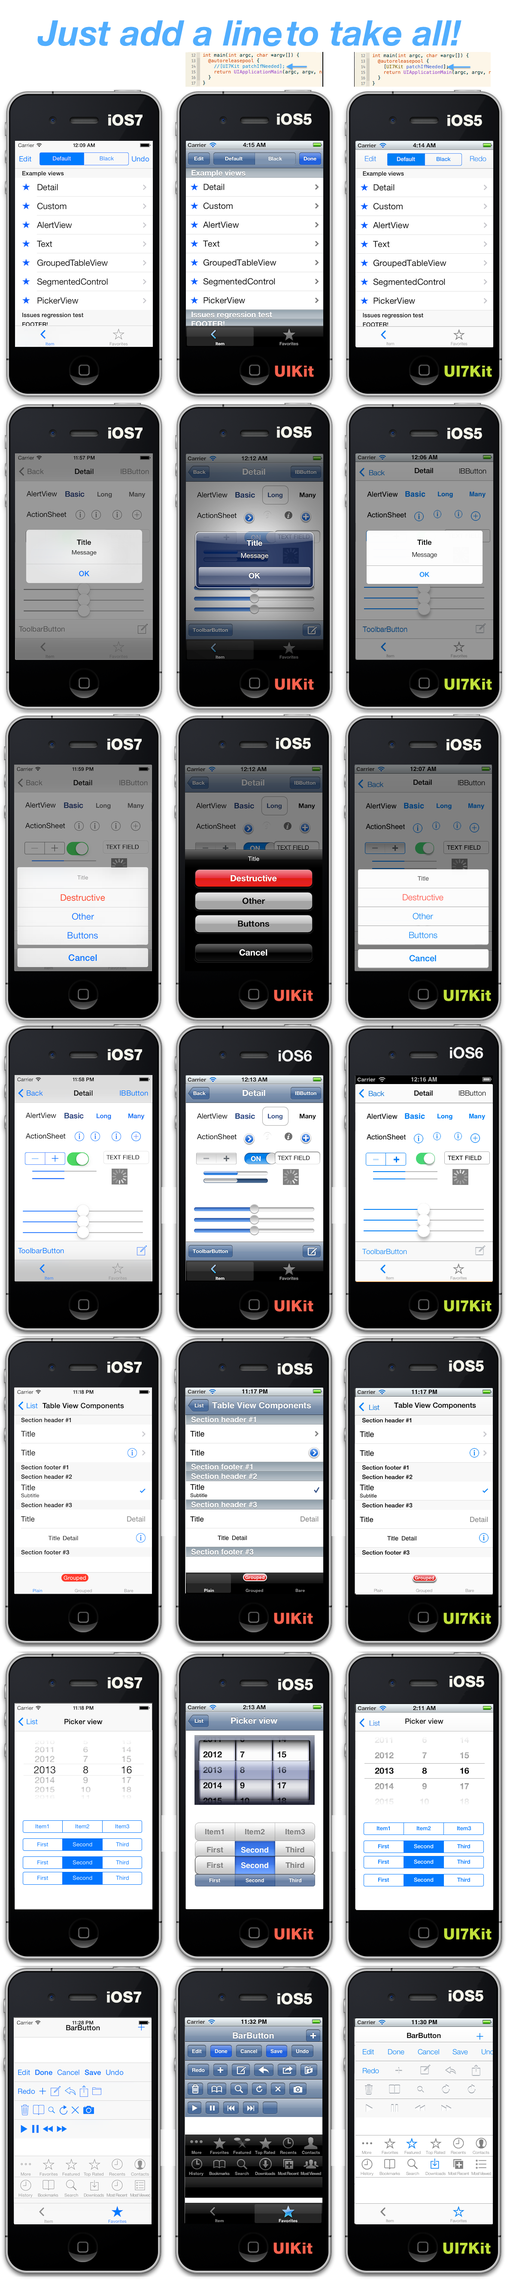
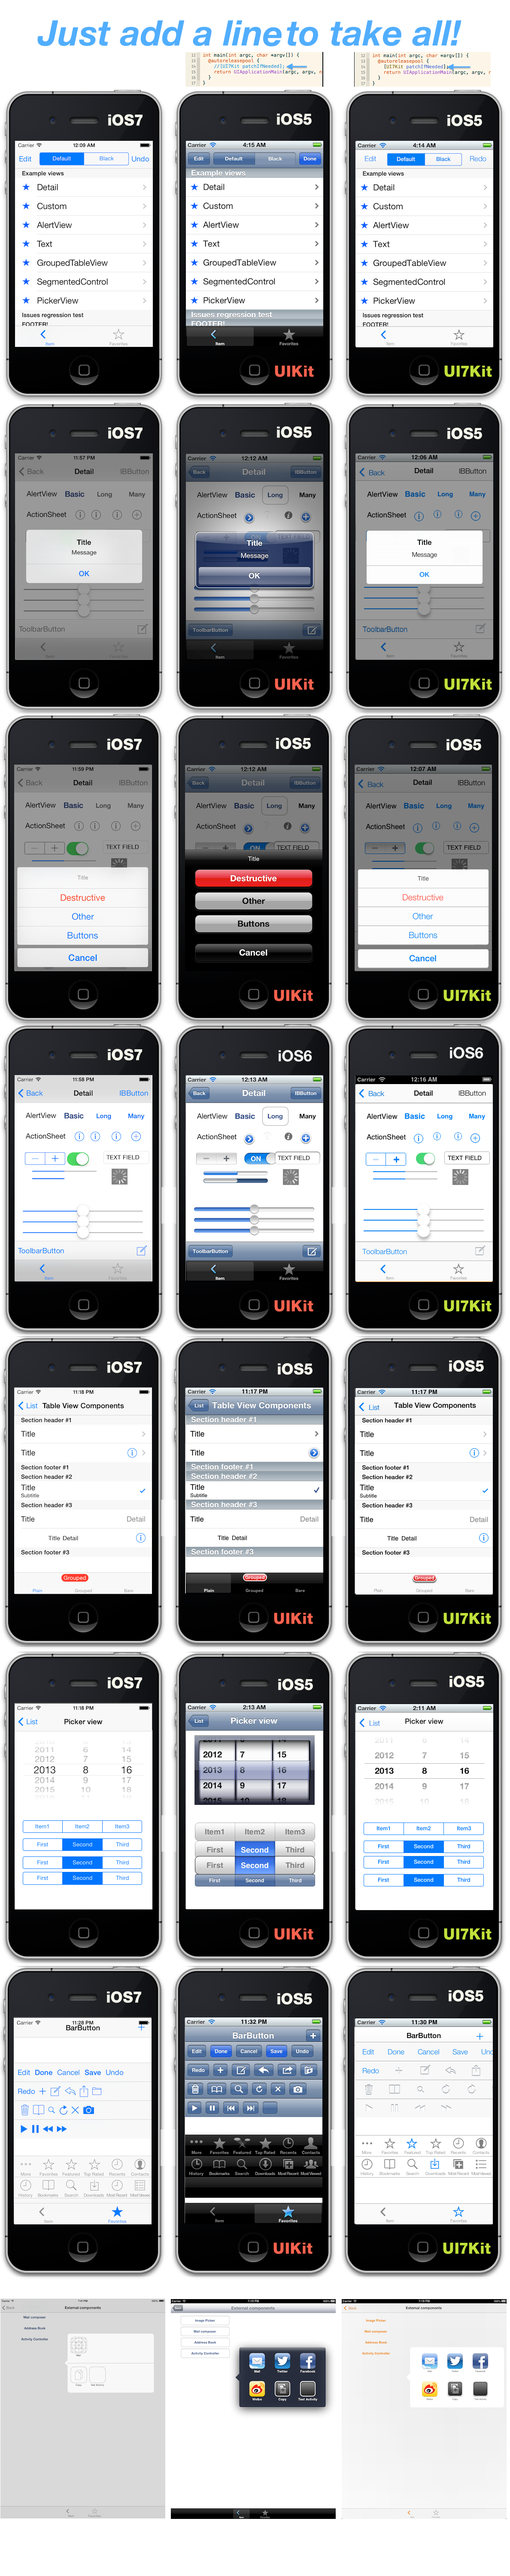
0.9.6 preview

diff --git a/README.md b/README.md
@@ -37,7 +37,7 @@ NOTE: See below to install or setup your projects.
 
 Example
 -------
-Example with current code. (0.7.4)
+Example with current code. (0.9.6)
 
 The phones on the left most column of the screenshot are iOS7, and the phones on the middle and right columns are iOS5 or iOS6.
 
